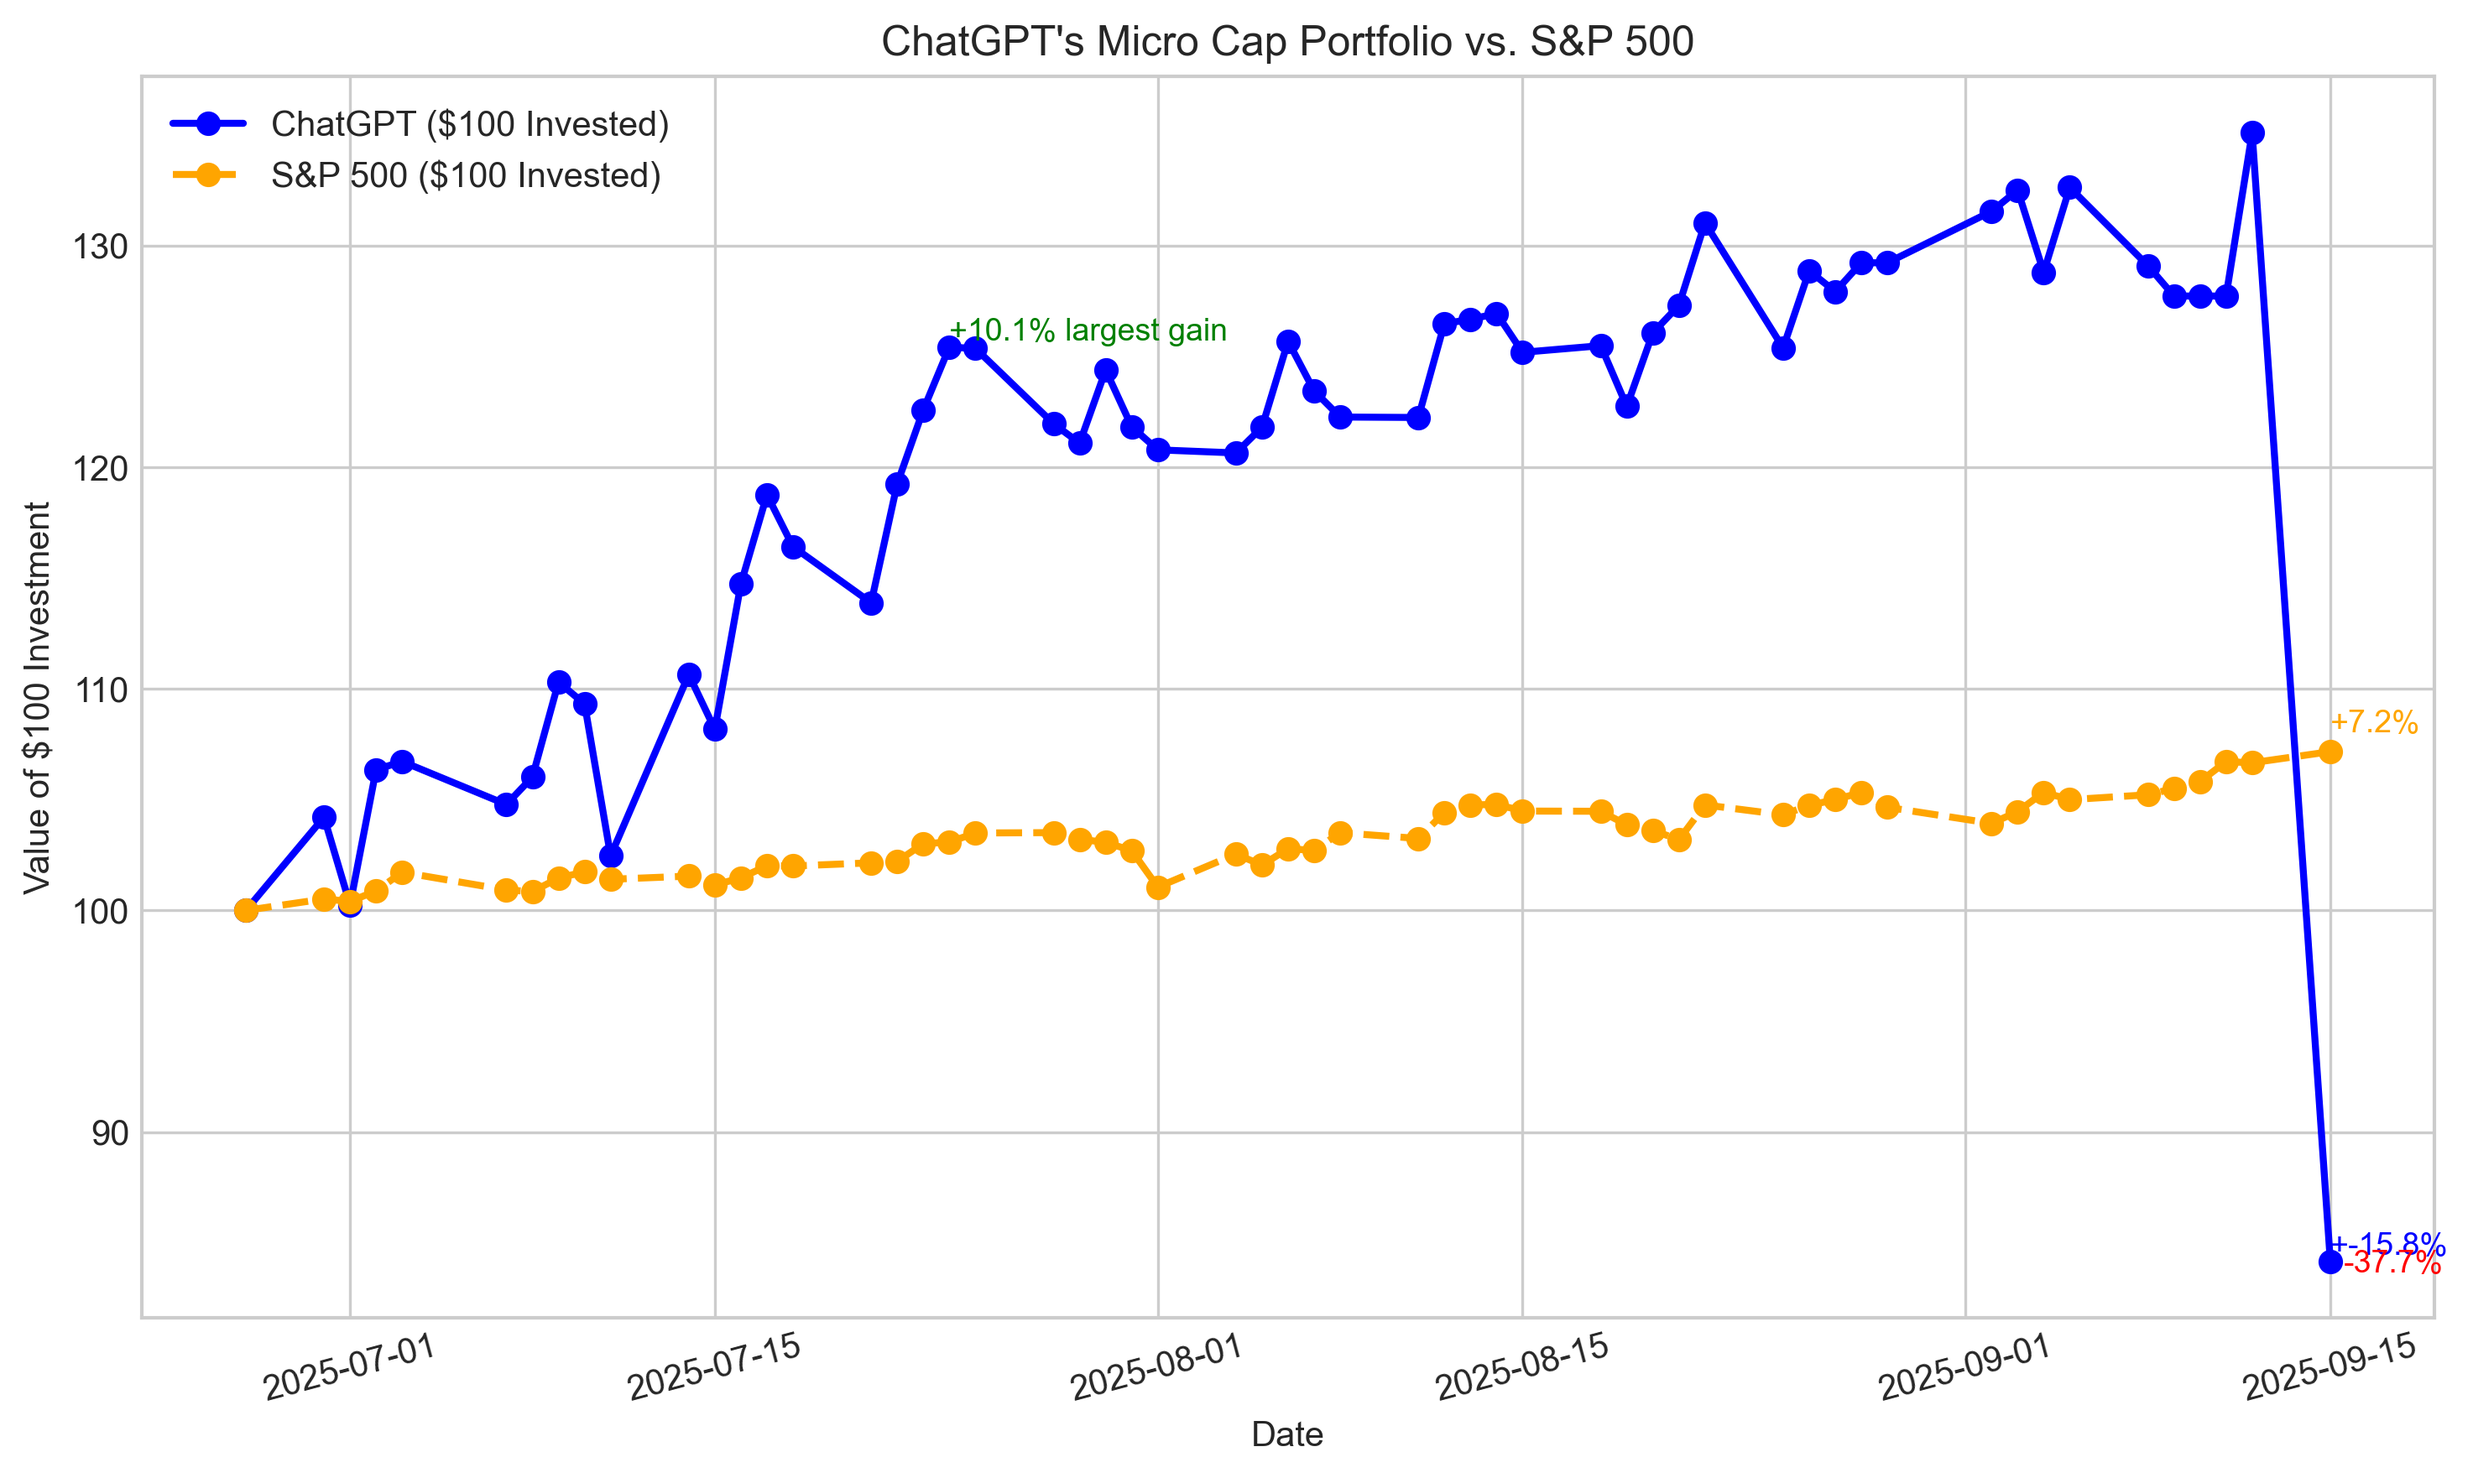
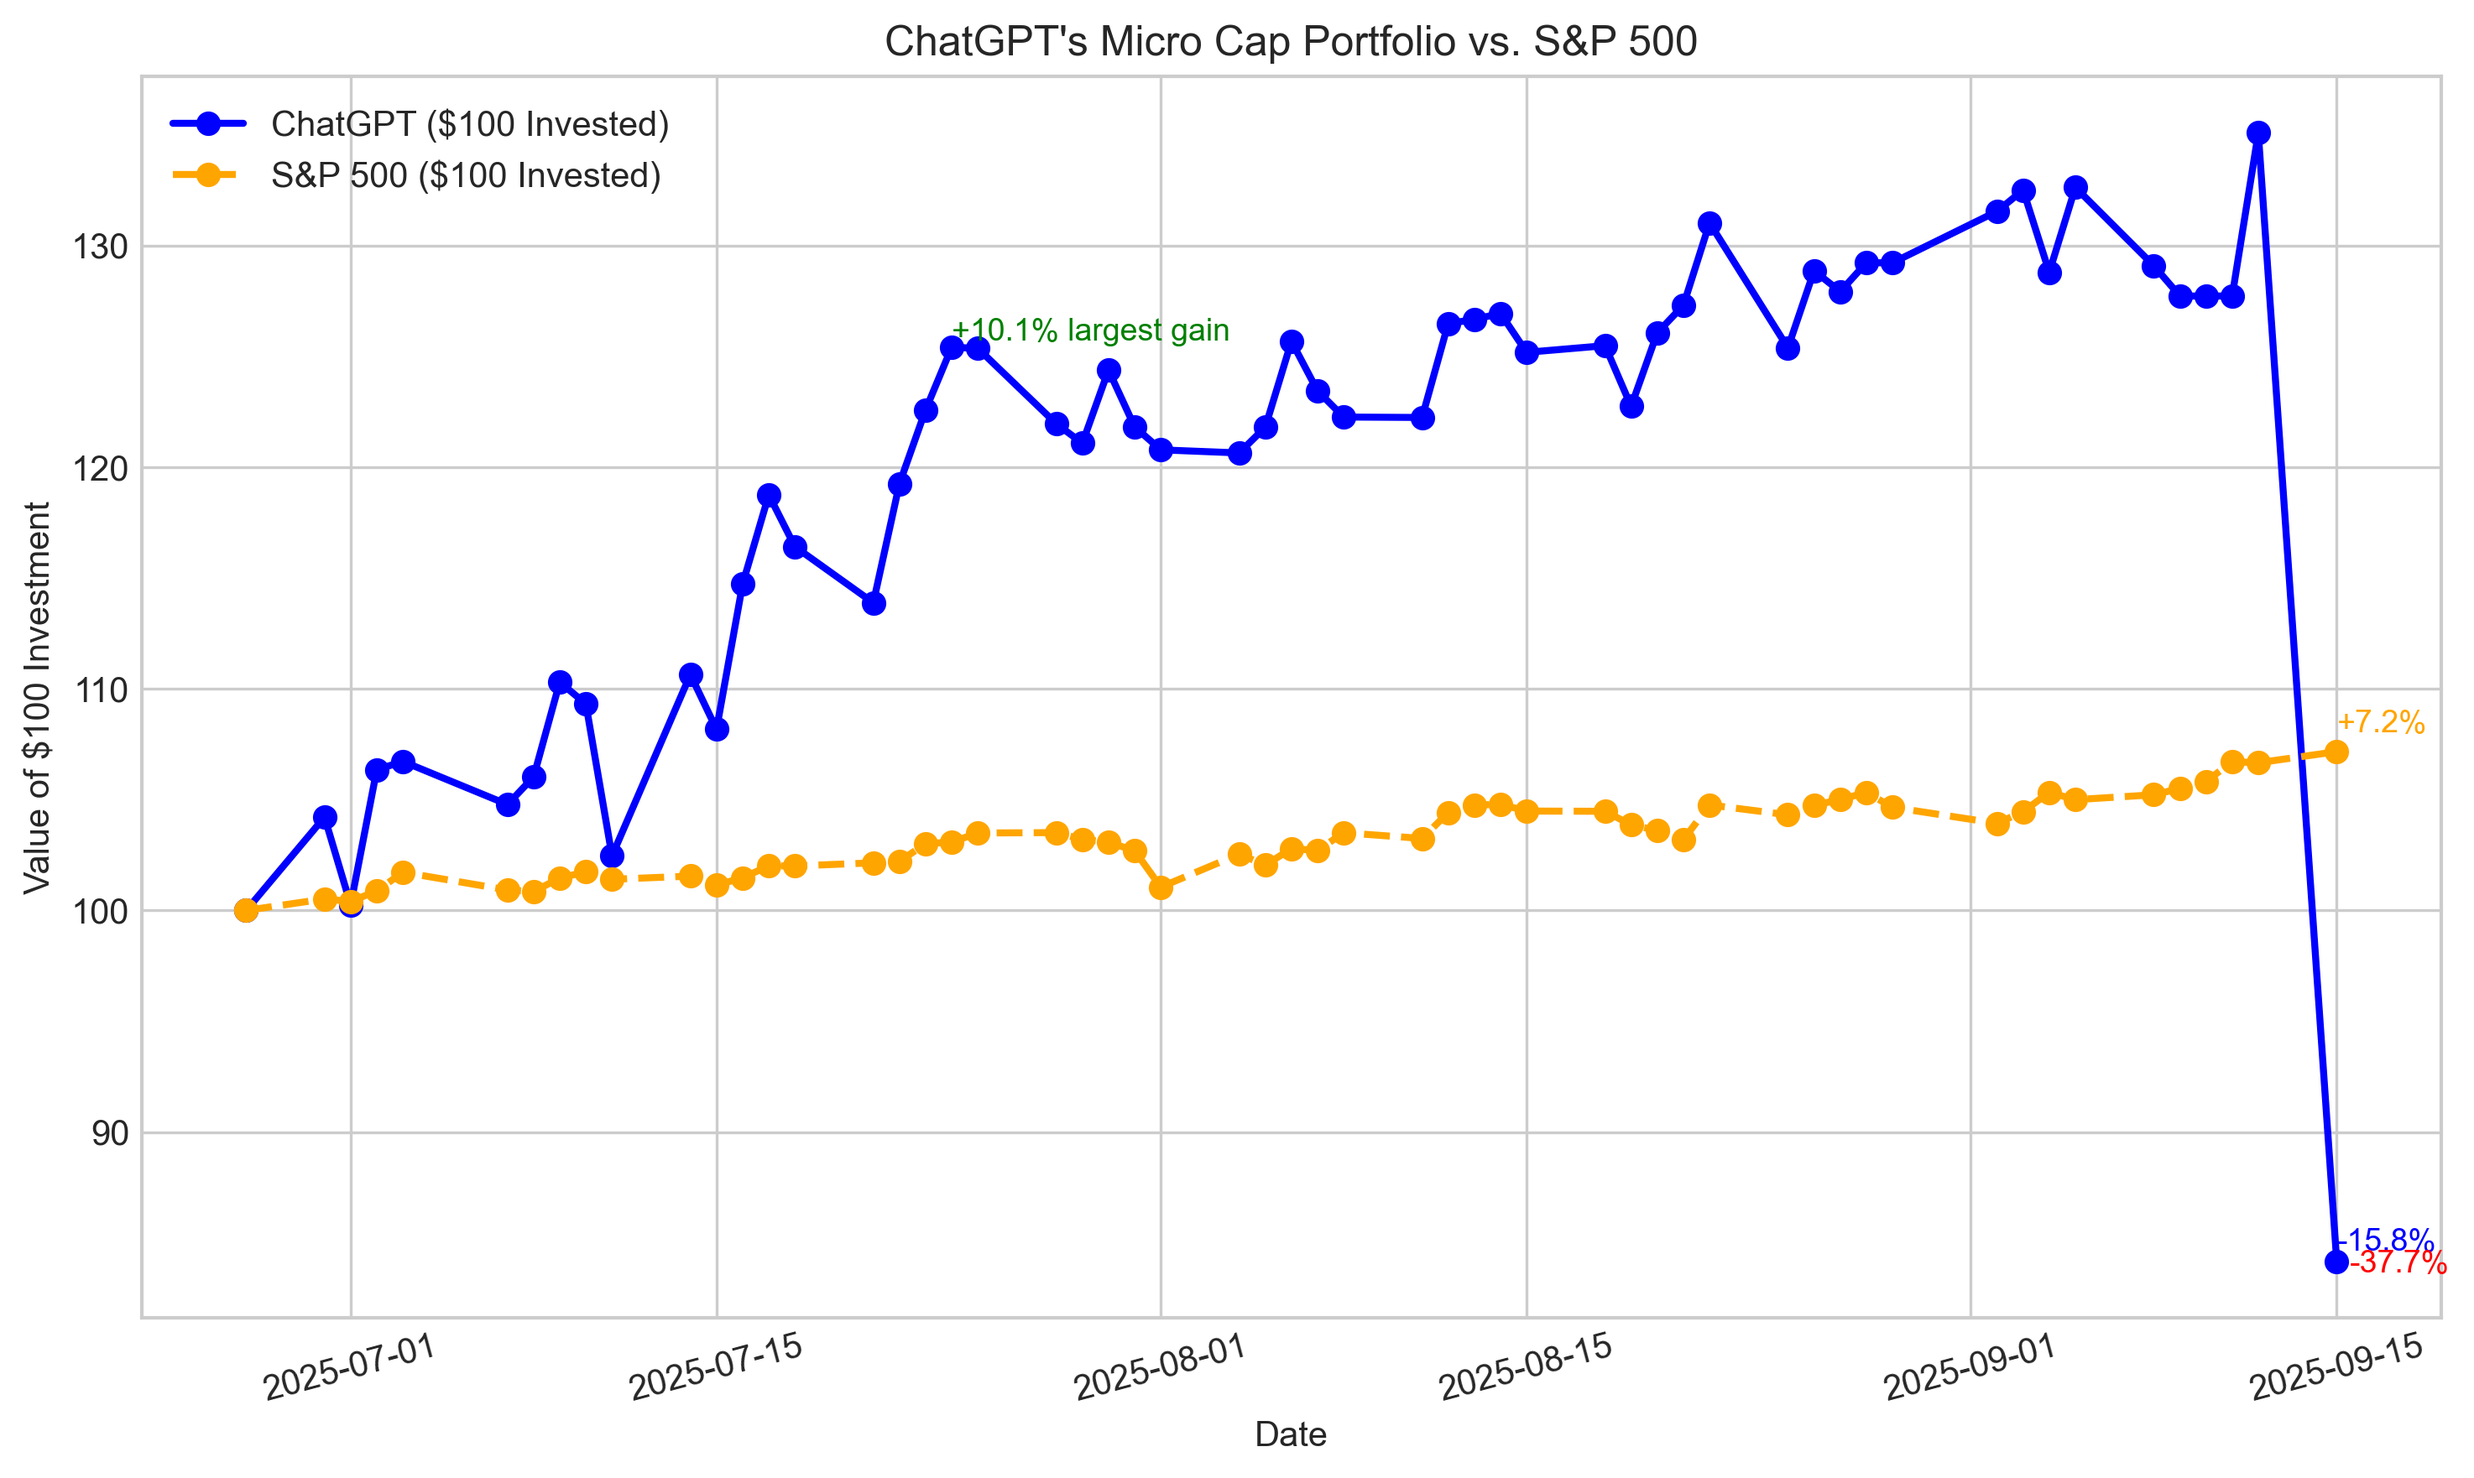
Edit graph layout

diff --git a/Scripts and CSV Files/Generate_Graph.py b/Scripts and CSV Files/Generate_Graph.py
@@ -151,7 +151,7 @@ def main() -> dict:
     final_date = chatgpt_totals["Date"].iloc[-1]
     final_chatgpt = float(chatgpt_totals["Total Equity"].iloc[-1])
     final_spx = float(sp500["SPX Value ($100 Invested)"].iloc[-1])
-    plt.text(final_date, final_chatgpt + 0.3, f"+{final_chatgpt - 100.0:.1f}%", color="blue", fontsize=9)
+    plt.text(final_date, final_chatgpt + 0.5, f"{final_chatgpt - 100.0:.1f}%", color="blue", fontsize=9)
     plt.text(final_date, final_spx + 0.9, f"+{final_spx - 100.0:.1f}%", color="orange", fontsize=9)
 
     # annotate max drawdown
